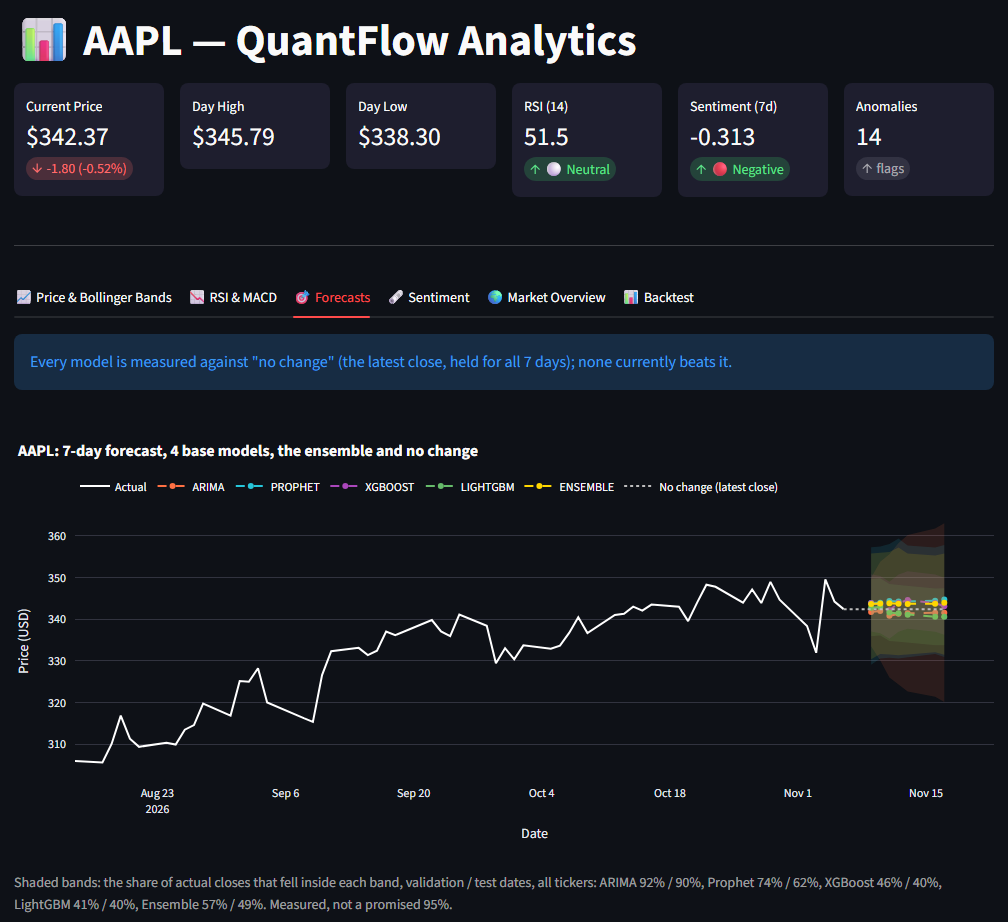
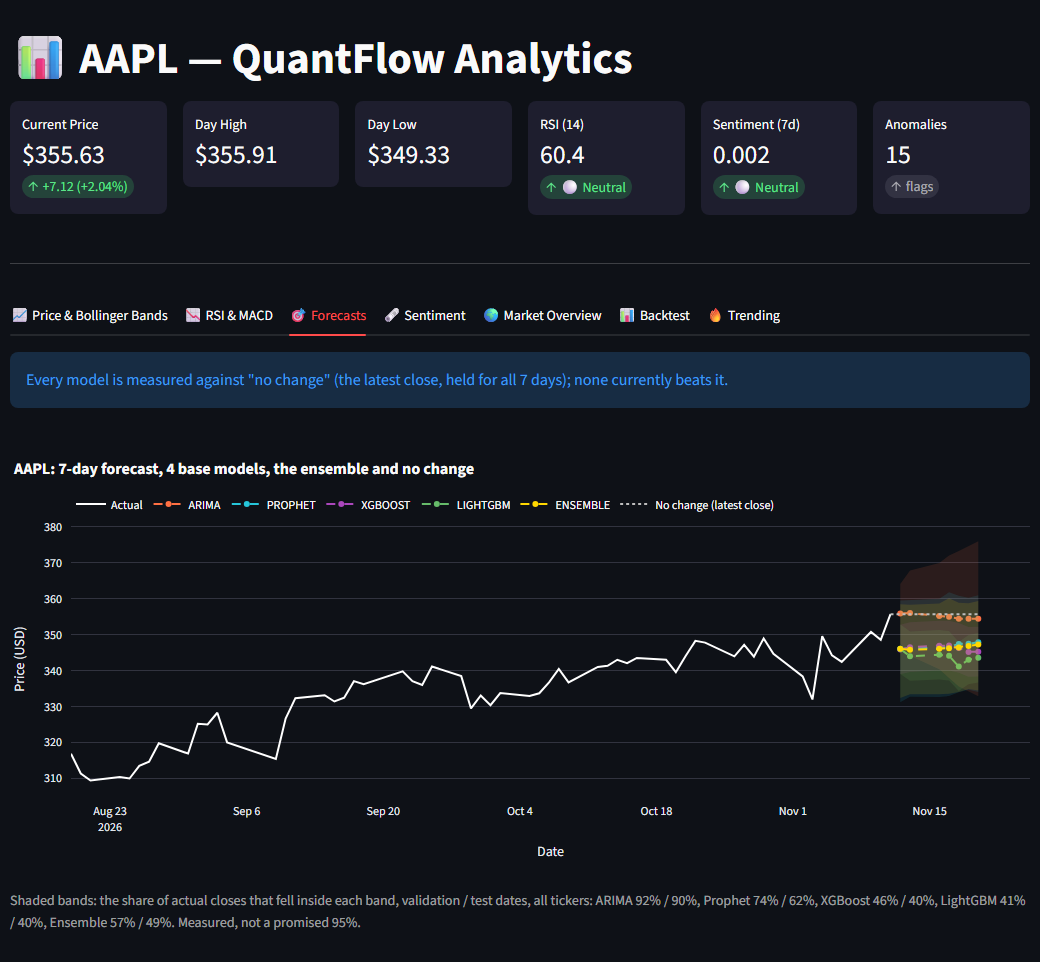
docs(readme): a fresh screenshot of the live dashboard
The README's screenshot was taken on data to 2026-11-06, before the news
switched to RSS only, and before the Trending tab existed. Retaken from
the live app on 2026-11-12 (data to 2026-11-11, after that night's
refresh on the new action versions): the Forecasts tab, as before, with
the Trending tab in the tab bar.

diff --git a/README.md b/README.md
@@ -17,7 +17,7 @@ A stock analytics pipeline that ingests market data, engineers features from pri
 
 ![The dashboard's Forecasts tab for AAPL: each model's 7-day forecast beside "no change", with the measured coverage of every band](docs/images/dashboard_forecasts.png)
 
-*The dashboard's Forecasts tab (AAPL, data to 2026-11-06). Taken before the news switched to RSS only on 2026-11-09, so its sentiment card and the boosted trees' and the ensemble's lines still include NewsAPI's articles; its band figures equal the current ones.*
+*The live dashboard's Forecasts tab (AAPL, data to 2026-11-11, taken 2026-11-12), news from RSS only, with the Trending tab beside the six core tabs. The band figures are the published validation / test coverage.*
 
 ---
 
